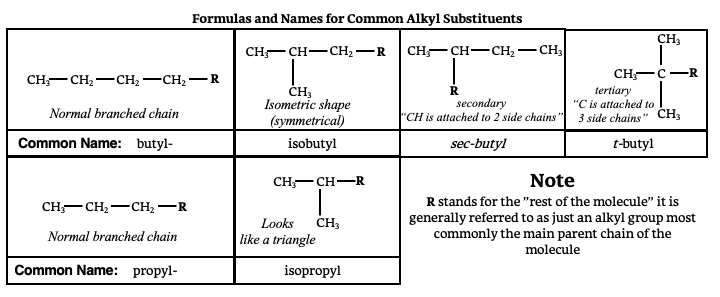
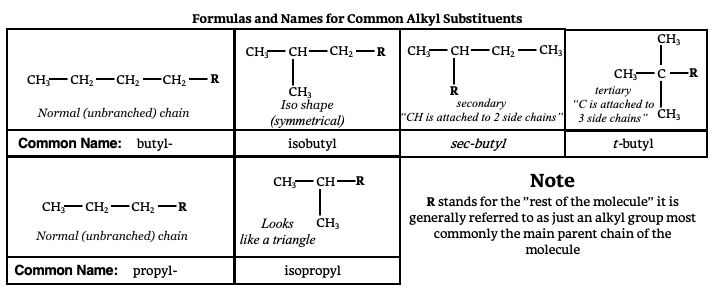
Slide figures: author-confirmed; fix seven figures
The author confirmed drawing all 41 slide figures, so they are
credited as the author's own work (CC BY 4.0) and the UNVERIFIED flags
are removed. Corrections (same file names, so the book updates on
merge):
- Slide2: "Normal (unbranched) chain" (x2), "Iso shape".
- Slide15: Tollens equation balanced:
  CH3CHO + 2Ag+ + 3OH- -> CH3COO- + 2Ag + 2H2O.
- Slide28: "three-carbon".
- Slide42: remove the stray H that gave the ketose carbon five bonds.
- Slide43: remove leftover glyph fragments (comparison fructose kept).
- Slide49: 3 NaOH, not 3 H2O, in both saponification equations.
- Slide68: complete the cut-off "Maximum rate" / "Optimum pH" labels.

Changed region(s): [[0.0306, 0.7576, 0.275, 0.8182], [0.0306, 0.3636, 0.275, 0.3939], [0.3667, 0.3333, 0.4889, 0.3939]]

diff --git a/figures/CREDITS.md b/figures/CREDITS.md
@@ -15,26 +15,22 @@ Book-wide license rules:
 | Pathway and reaction diagrams | `pathways/**` | Generated by `tools/glycolysis.js`, `tools/pathway.js`, `tools/etc_figure.js` and `tools/oer_figs.js` | CC BY 4.0 | Daniel Kwasniewski | `aria-label` and `<title>` in each SVG |
 | Original replacements for CC BY-SA images | `pathways/oer/*.svg` | Drawn for this book (commit 8b6469d) to replace ShareAlike images | CC BY 4.0 | Daniel Kwasniewski | `aria-label` and `<title>` in each SVG |
 | Diamond network model | `structures/diamond_network.svg` | Drawn for this book (commit b1741f6), replacing a Thinkstock image | CC BY 4.0 | Daniel Kwasniewski | `aria-label` and `<title>` |
-| Lecture-slide figures | `Slide*.png` (41) | Exported from the CHEM 3B lecture decks | **See the table below** | See below | Alt text on the LibreTexts pages |
+| Lecture-slide figures | `Slide*.png` (41) | Drawn by the author for the CHEM 3B lecture decks (confirmed by the author, 2026-11-11) | CC BY 4.0 | Daniel Kwasniewski | Alt text on the LibreTexts pages |
 
 ## Lecture-slide figures (`Slide*.png`)
 
-The book credits all 41 slide figures as "drawn by the author". The lecture decks were built around Timberlake's *General, Organic, and Biological Chemistry* (Pearson). `slides_text/` contains a Pearson copyright line and a stock-photo credit. So the "drawn by the author" claim can't be accepted without checking.
+The audit flagged nine slide figures (Slide35, 38, 40, 41, 43, 50, 68, 69, 70) because the decks follow Timberlake's chapter order and some figures resembled textbook art. On 2026-11-11 the author confirmed drawing all of the slide figures, so they are credited as the author's own work under the book's CC BY 4.0 license.
 
-Check each figure against the original drawing files. Any figure that contains publisher art must be redrawn or removed. A CC license cannot cover it.
+Corrections made on 2026-11-11 (same file names, so the book updates automatically):
+- **Slide2:** "Normal branched chain" changed to "Normal (unbranched) chain" (twice), and "Isometric shape" to "Iso shape".
+- **Slide15:** the Tollens equation is now balanced: CH₃CHO + 2Ag⁺ + 3OH⁻ → CH₃COO⁻ + 2Ag + 2H₂O. Before, the right side had acetic acid + 2Ag + H₂O, which balanced neither atoms nor charge.
+- **Slide28:** "three-caron" changed to "three-carbon".
+- **Slide42:** removed the stray "H–" on the ketose carbon, which had given it five bonds. It now reads CH₂OH–C(=O)–.
+- **Slide43:** removed leftover "O"/"OH" glyph fragments at the lower left. The comparison fructose ring is kept.
+- **Slide49:** 3 H₂O changed to 3 NaOH in both saponification equations. The arrow keeps "Heat".
+- **Slide68:** cut-off labels completed ("Maximum rate", "Optimum pH"). The image is 70 px wider.
 
-| Status | Files | Why |
-|---|---|---|
-| **UNVERIFIED: likely third-party art** | Slide40, Slide41, Slide43, Slide68, Slide69 | Publisher-style artwork, scanned or recoloured looks, cropped labels. Slide68 is cut off mid-word ("Maximum ra", "Optimum p"). Slide43 contains a stray duplicate fructose and cropped "O"/"OH" glyphs. |
-| **UNVERIFIED: pasted elements of unknown origin** | Slide35, Slide38, Slide50, Slide70 | Mix of drawing styles (the Fischer projection and methanol, maltose, cholesterol, ascorbic acid) |
-| Probably author-drawn (consistent ChemDraw style) | Slide1, 2, 3, 9, 10, 11, 12, 14, 15, 16, 19, 21, 22, 23, 24, 26, 27, 28, 29, 30, 32, 36, 42, 47, 48, 49, 51, 52, 55, 56, 59, 60 | Still needs the author's confirmation |
-
-Errors in the slide figures, seen during the audit. Fix them when the figures are redrawn:
-- Slide2: "Normal branched chain" should be "unbranched", and "Isometric" should be "Isomeric".
-- Slide15: the Tollens equation is unbalanced.
-- Slide28: "three-caron" should be "three-carbon".
-- Slide42: an aldehyde is labeled "ketose", and "COH" should be "COOH".
-- Slide49: shows 3 H₂O where saponification uses 3 NaOH.
+The alt text on LibreTexts for Slide15, Slide42 and Slide49 still describes the old versions; see the PR TODO for replacement text.
 
 ## Other images used by pages but not stored here
 These images are hotlinked from Wikimedia in adapted pages. Fix them on LibreTexts:

diff --git a/LICENSE.md b/LICENSE.md
@@ -10,6 +10,6 @@ Each such section is identified individually; see `pages/back_sources.html` (the
 
 **Other software** in this repository (`js/widget.js`, `js/embed.js`, `css/`, `practice.html`, `tools/*.js`, `tools/*.py`) is the author's own work. Unless a file says otherwise, it is provided free for educational use; contact the author for other uses. It is not part of the book's CC license. `tools/axe.min.js` is axe-core by Deque Systems, Mozilla Public License 2.0.
 
-**Images:** see `figures/CREDITS.md` for the source, license and attribution of each figure group. Third-party photographs keep their own licenses (`figures/openers/CREDITS.md`). The lecture-slide figures (`figures/Slide*.png`) are under review and must not be treated as openly licensed until `figures/CREDITS.md` says otherwise.
+**Images:** see `figures/CREDITS.md` for the source, license and attribution of each figure group. Third-party photographs keep their own licenses (`figures/openers/CREDITS.md`).
 
 Embedded study games and videos are linked from their own repositories and channels and are not part of this license.
